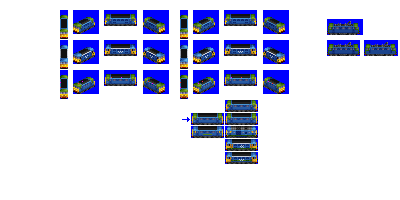
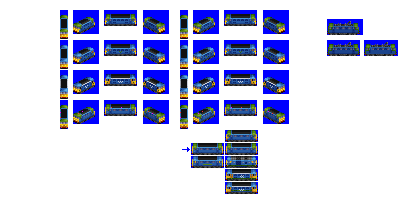
Change: additional banger blue livery for each of Reliance and Roarer

diff --git a/src/vehicles/roarer.py b/src/vehicles/roarer.py
@@ -16,14 +16,12 @@ def main(roster_id):
         gen=4,
         pantograph_type="z-shaped-double",
         intro_year_offset=2,  # introduce later than gen epoch by design
-        # banger blue
-        additional_liveries=["RAILFREIGHT_RED_STRIPE"],
+        additional_liveries=["BANGER_BLUE", "RAILFREIGHT_RED_STRIPE"],
         default_livery_extra_docs_examples=[
             ("COLOUR_BLUE", "COLOUR_WHITE"),
             ("COLOUR_LIGHT_BLUE", "COLOUR_WHITE"),
         ],
         sprites_complete=True,
-        sprites_additional_liveries_needed=True, # banger blue?
     )
 
     consist.add_unit(

diff --git a/src/vehicles/reliance.py b/src/vehicles/reliance.py
@@ -16,9 +16,8 @@ def main(roster_id):
         tractive_effort_coefficient=0.12,
         fixed_run_cost_points=140,  # minor cost bonus so it can make money
         gen=1,
-        additional_liveries=[],
+        additional_liveries=["BANGER_BLUE"],
         sprites_complete=True,
-        sprites_additional_liveries_needed=True, # banger blue? freight red / grey?
     )
 
     consist.add_unit(type=SteamEngineUnit, weight=56, vehicle_length=5, spriterow_num=0)
